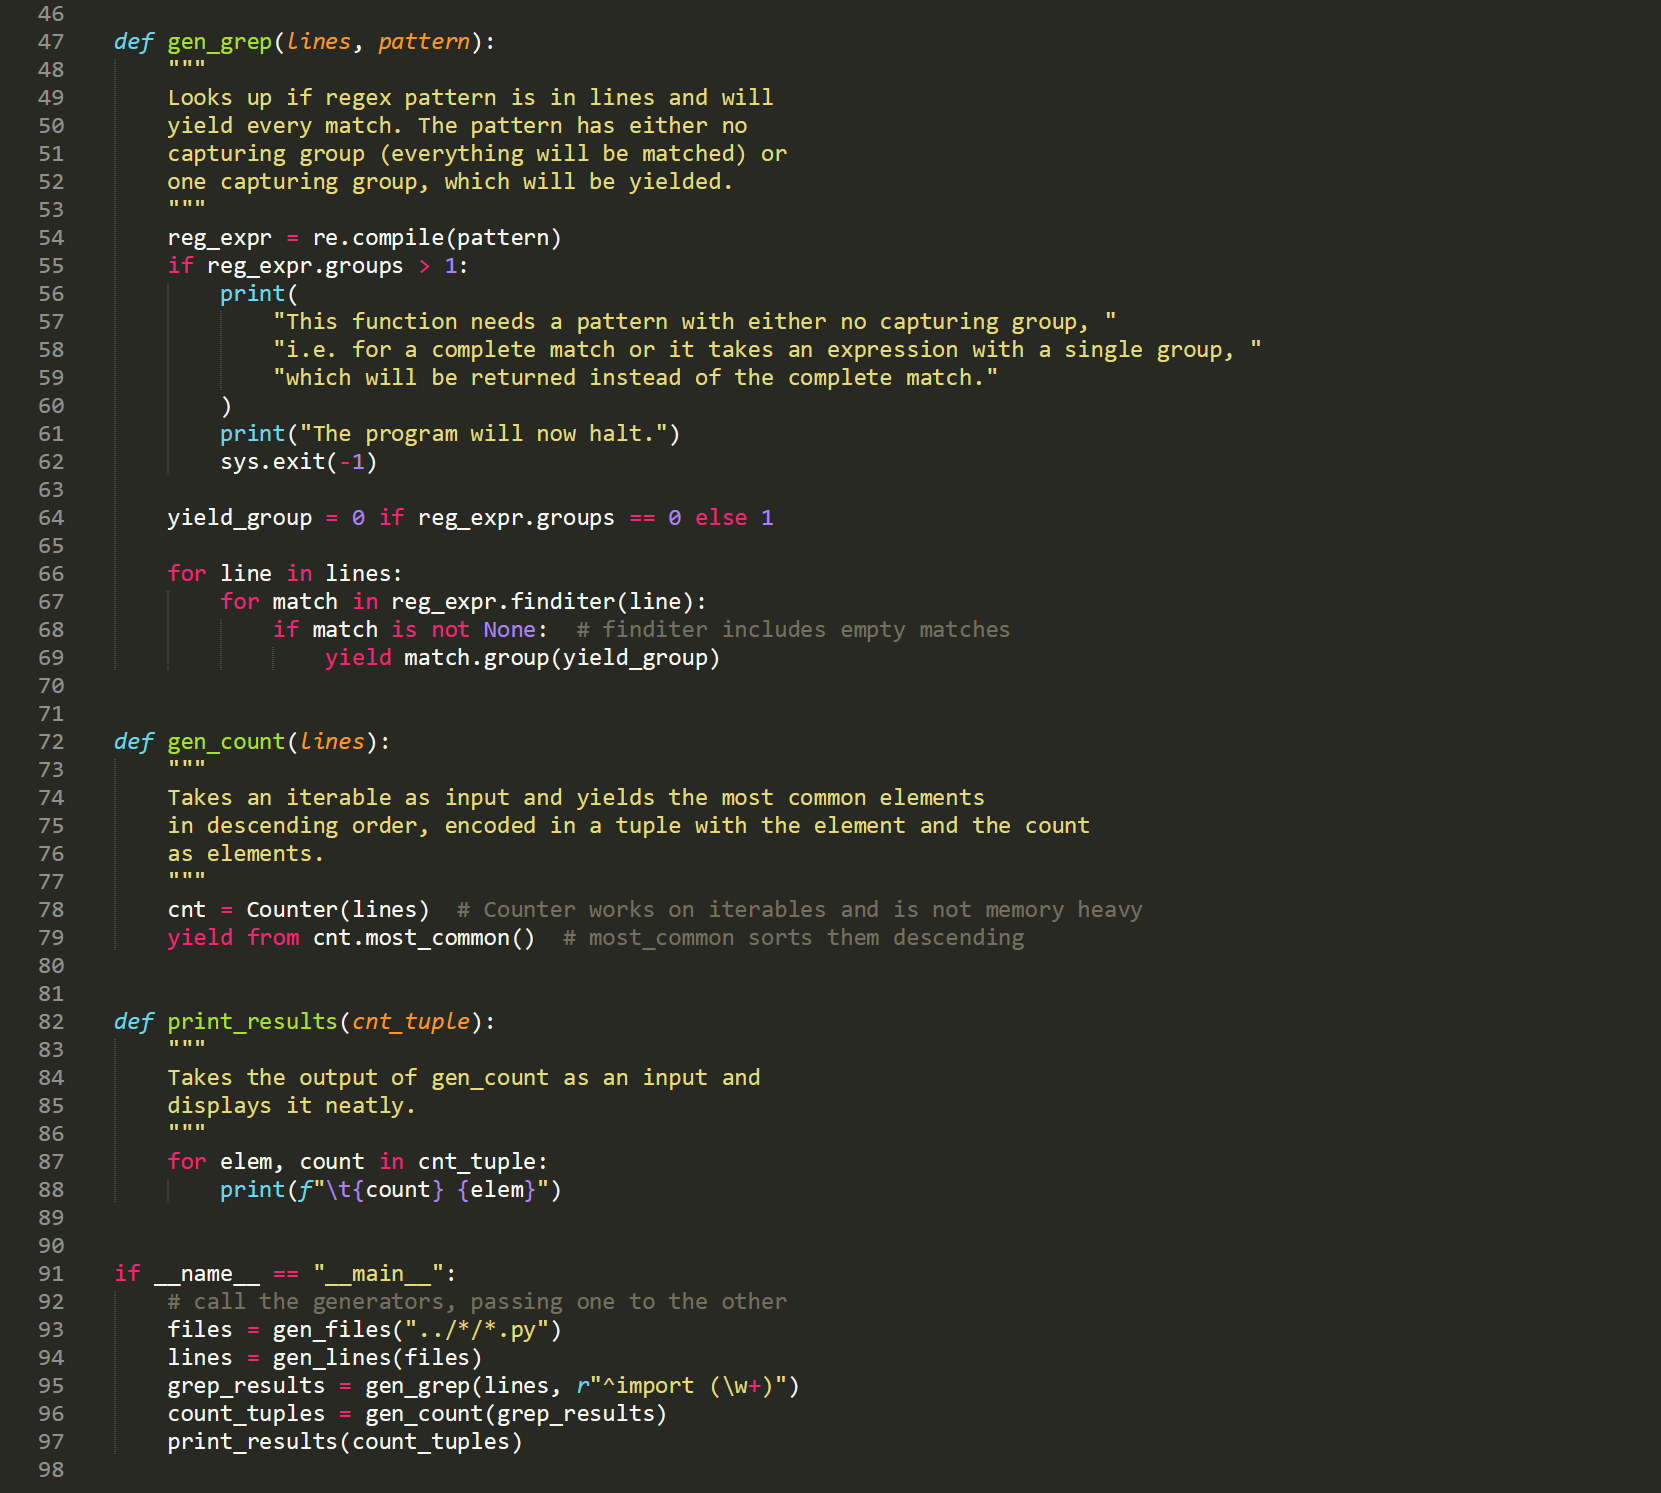
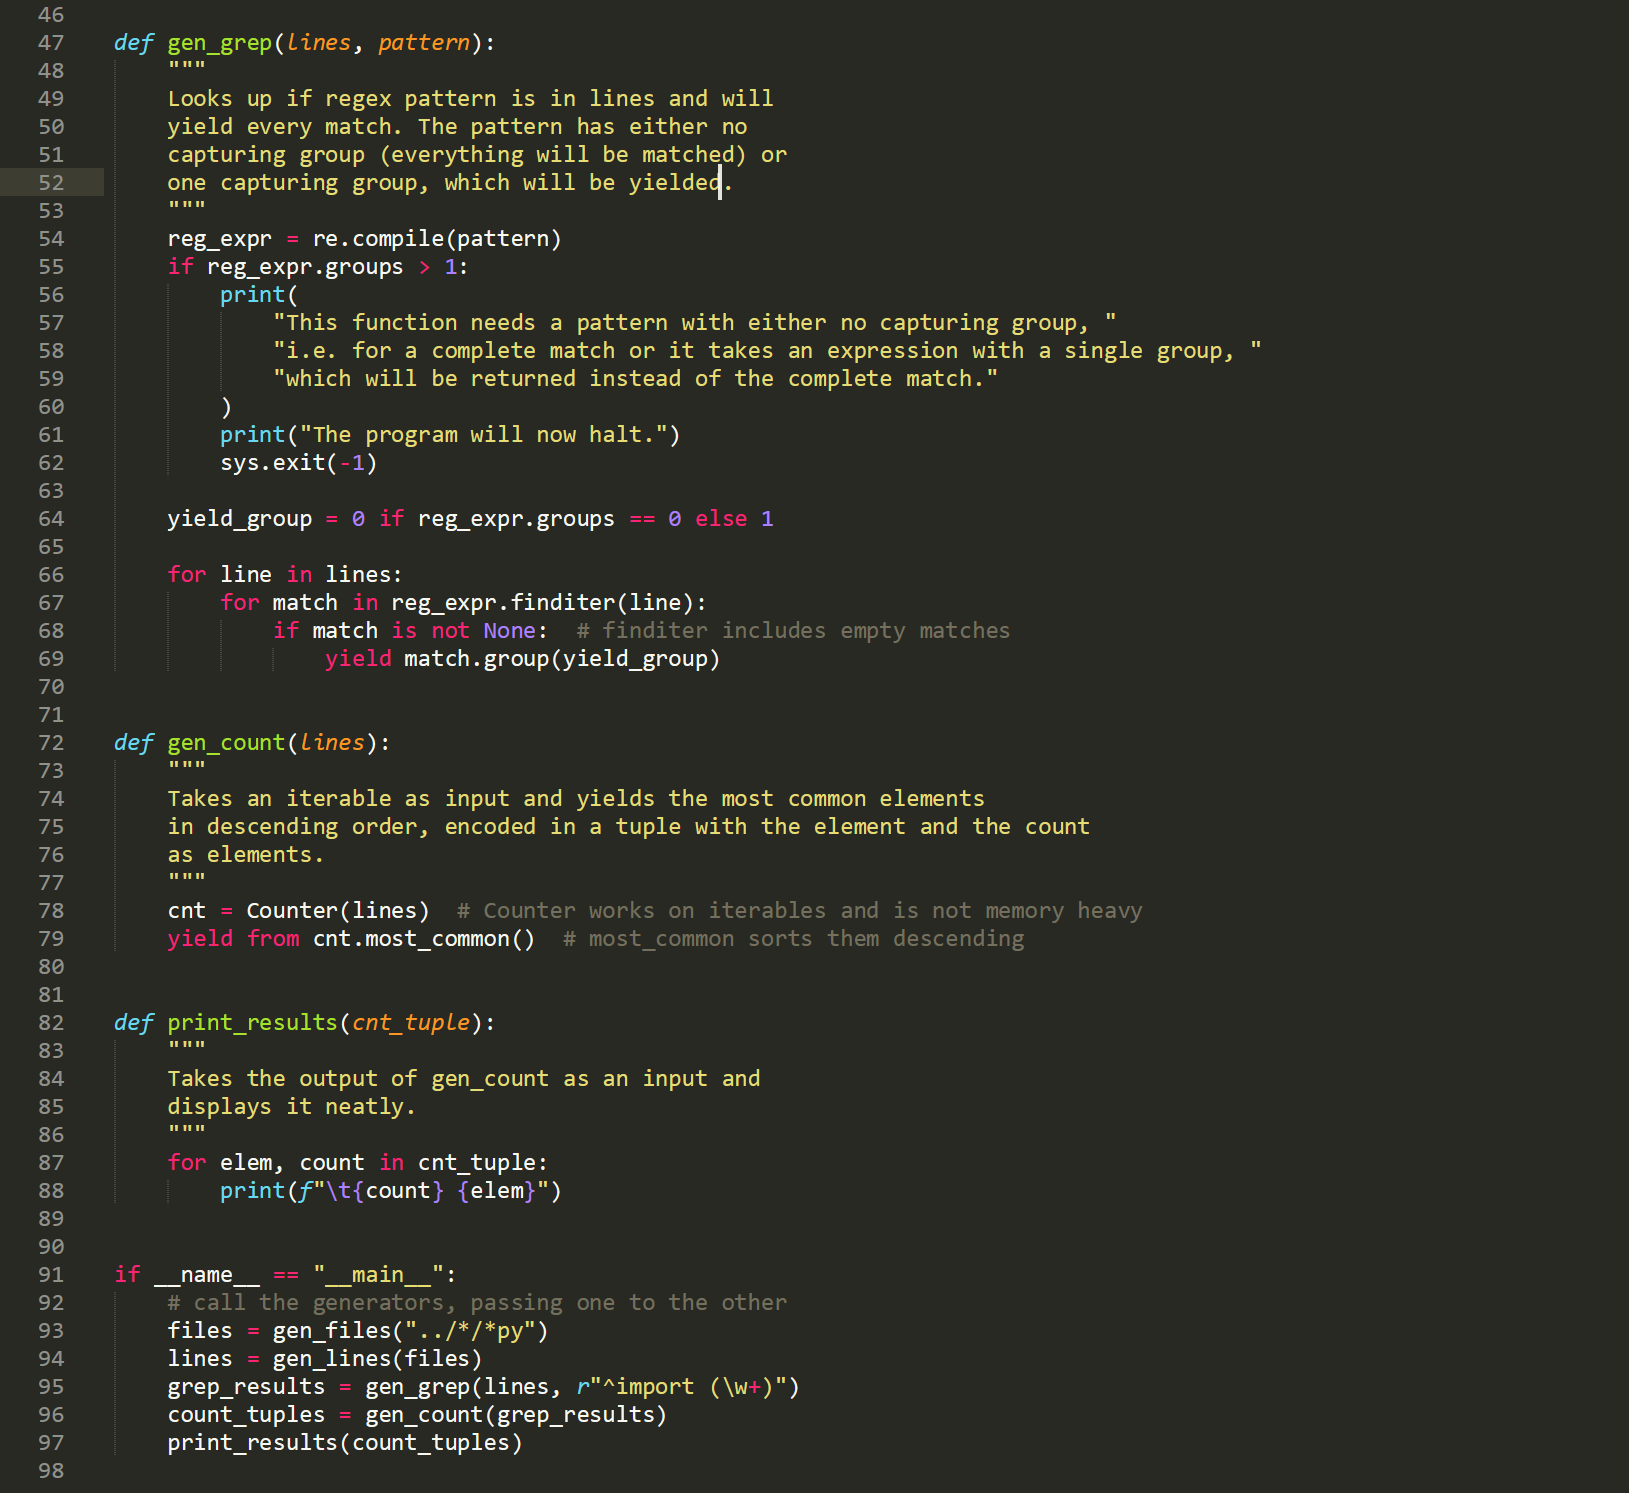
Changed pattern from "../*/*.py" to "../*/*py"
And fixed screenshots

diff --git a/11/kai-tub/generator-kai-tub.py b/11/kai-tub/generator-kai-tub.py
@@ -90,7 +90,7 @@ def print_results(cnt_tuple):
 
 if __name__ == "__main__":
     # call the generators, passing one to the other
-    files = gen_files("../*/*.py")
+    files = gen_files("../*/*py")
     lines = gen_lines(files)
     grep_results = gen_grep(lines, r"^import (\w+)")
     count_tuples = gen_count(grep_results)
